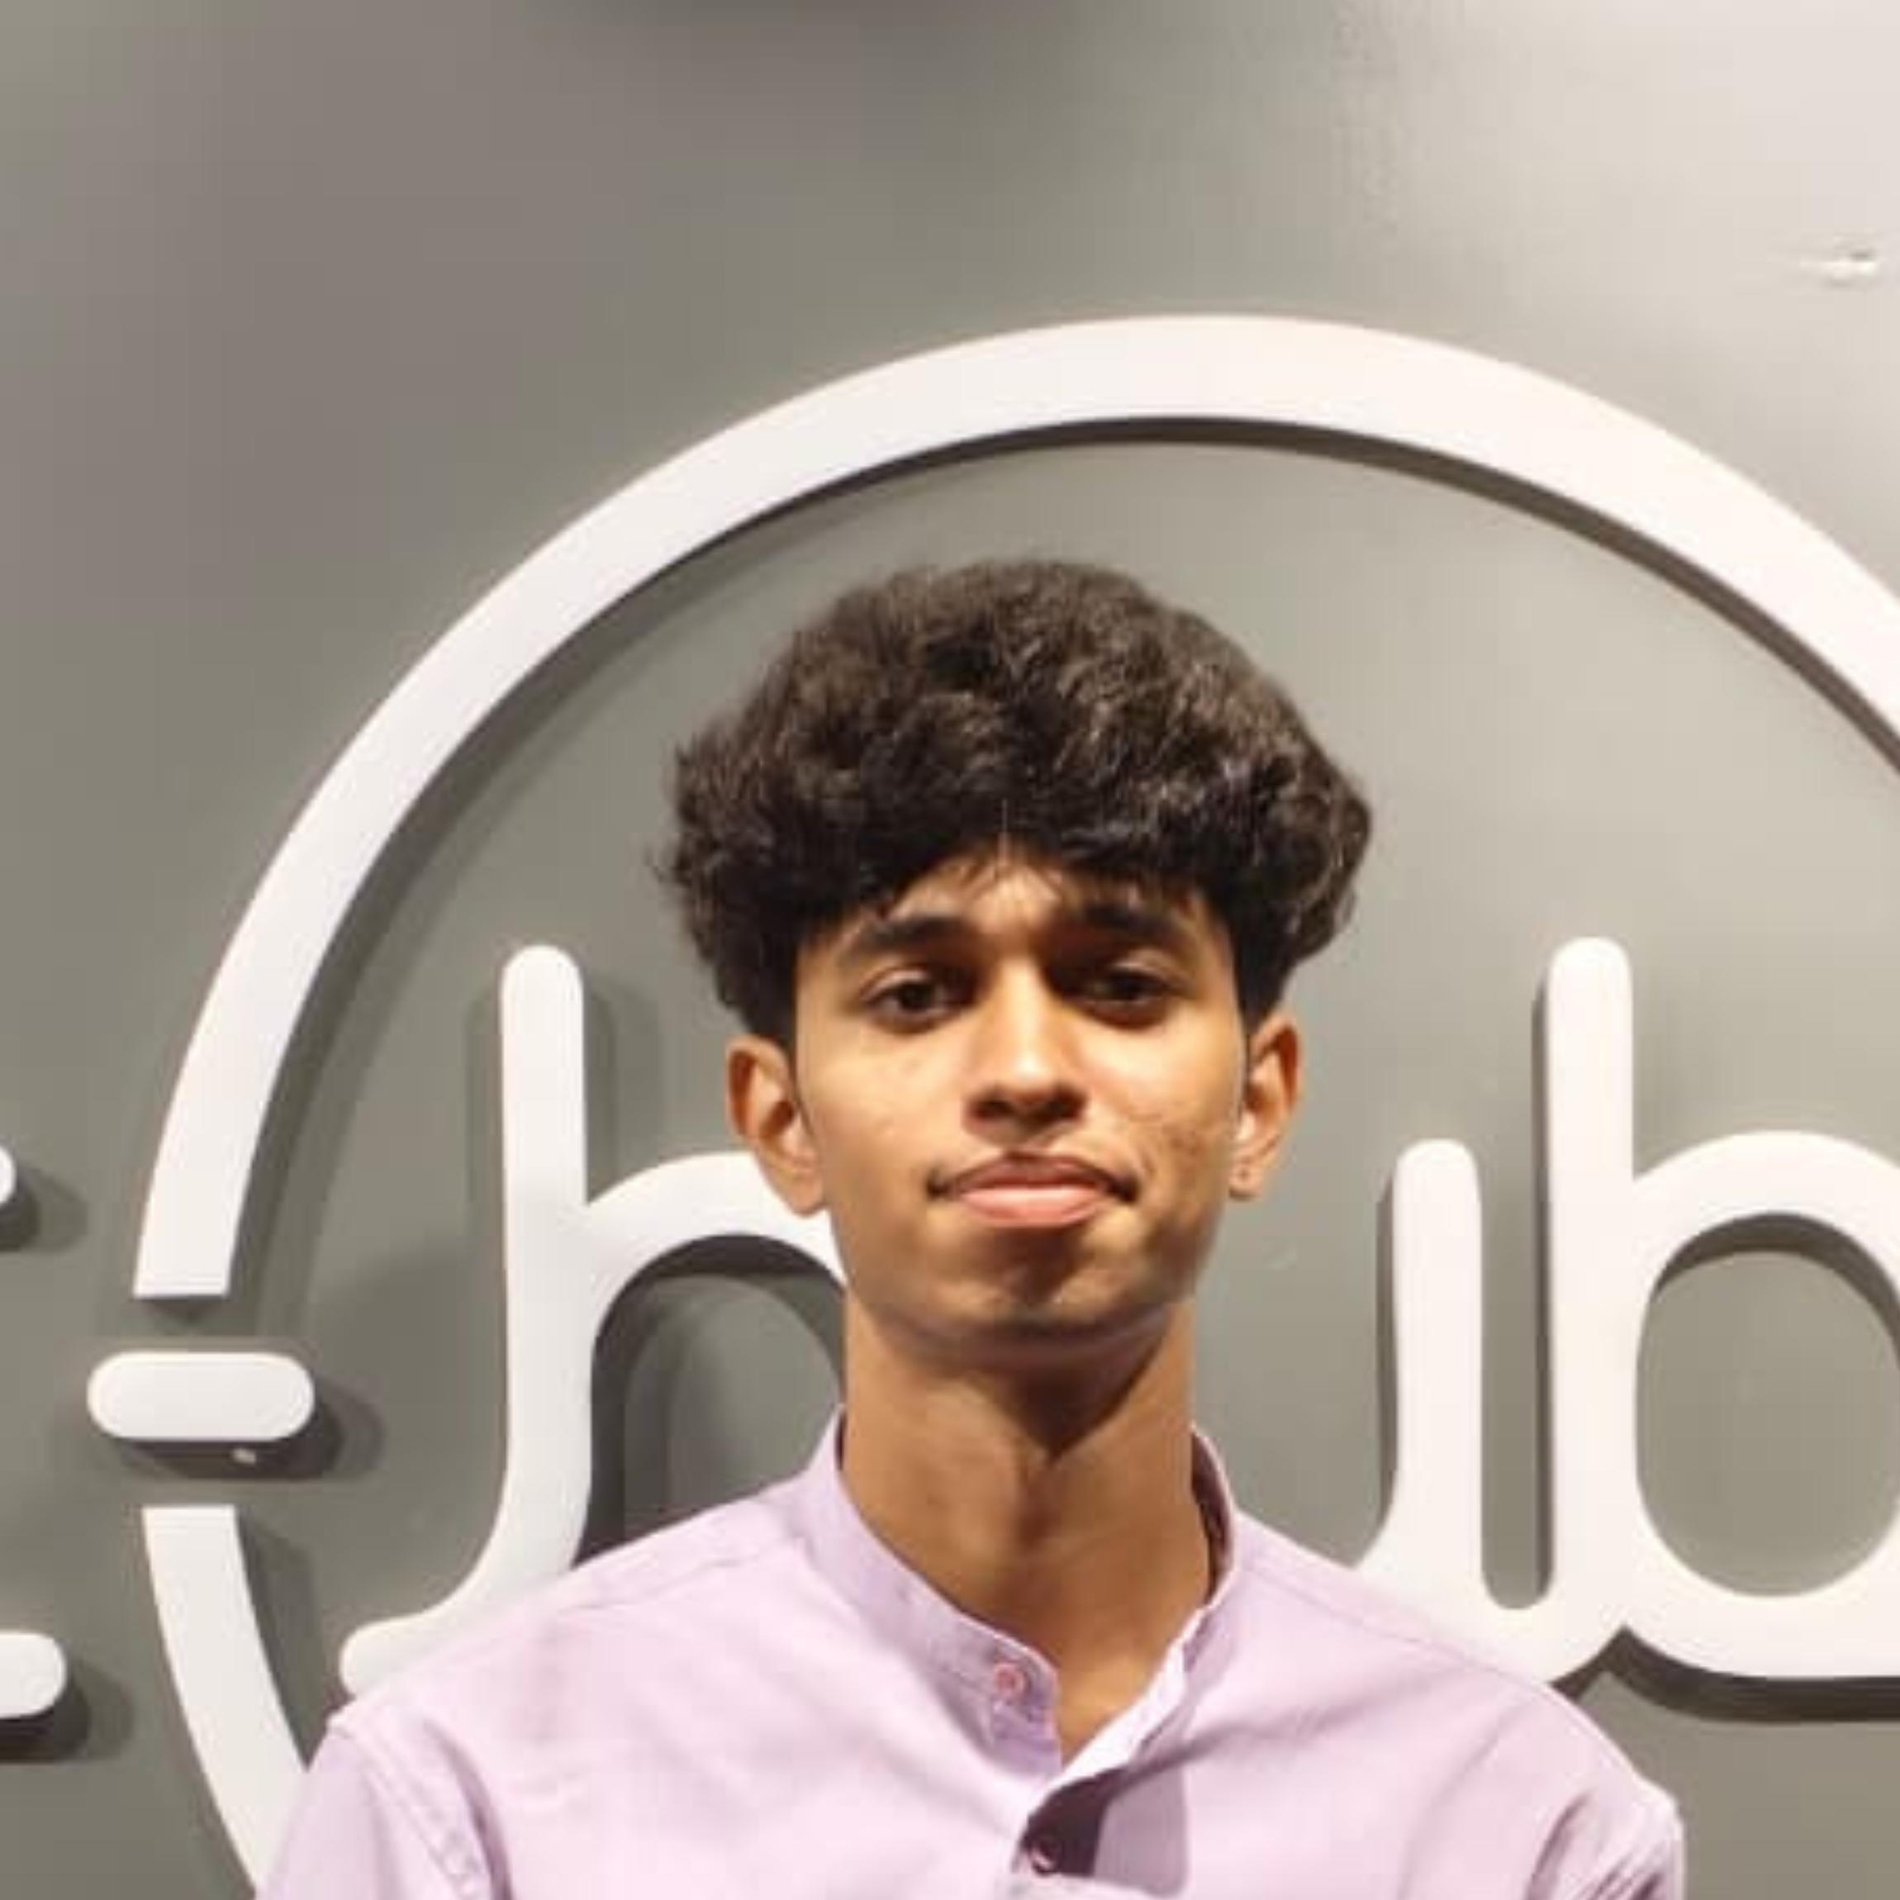
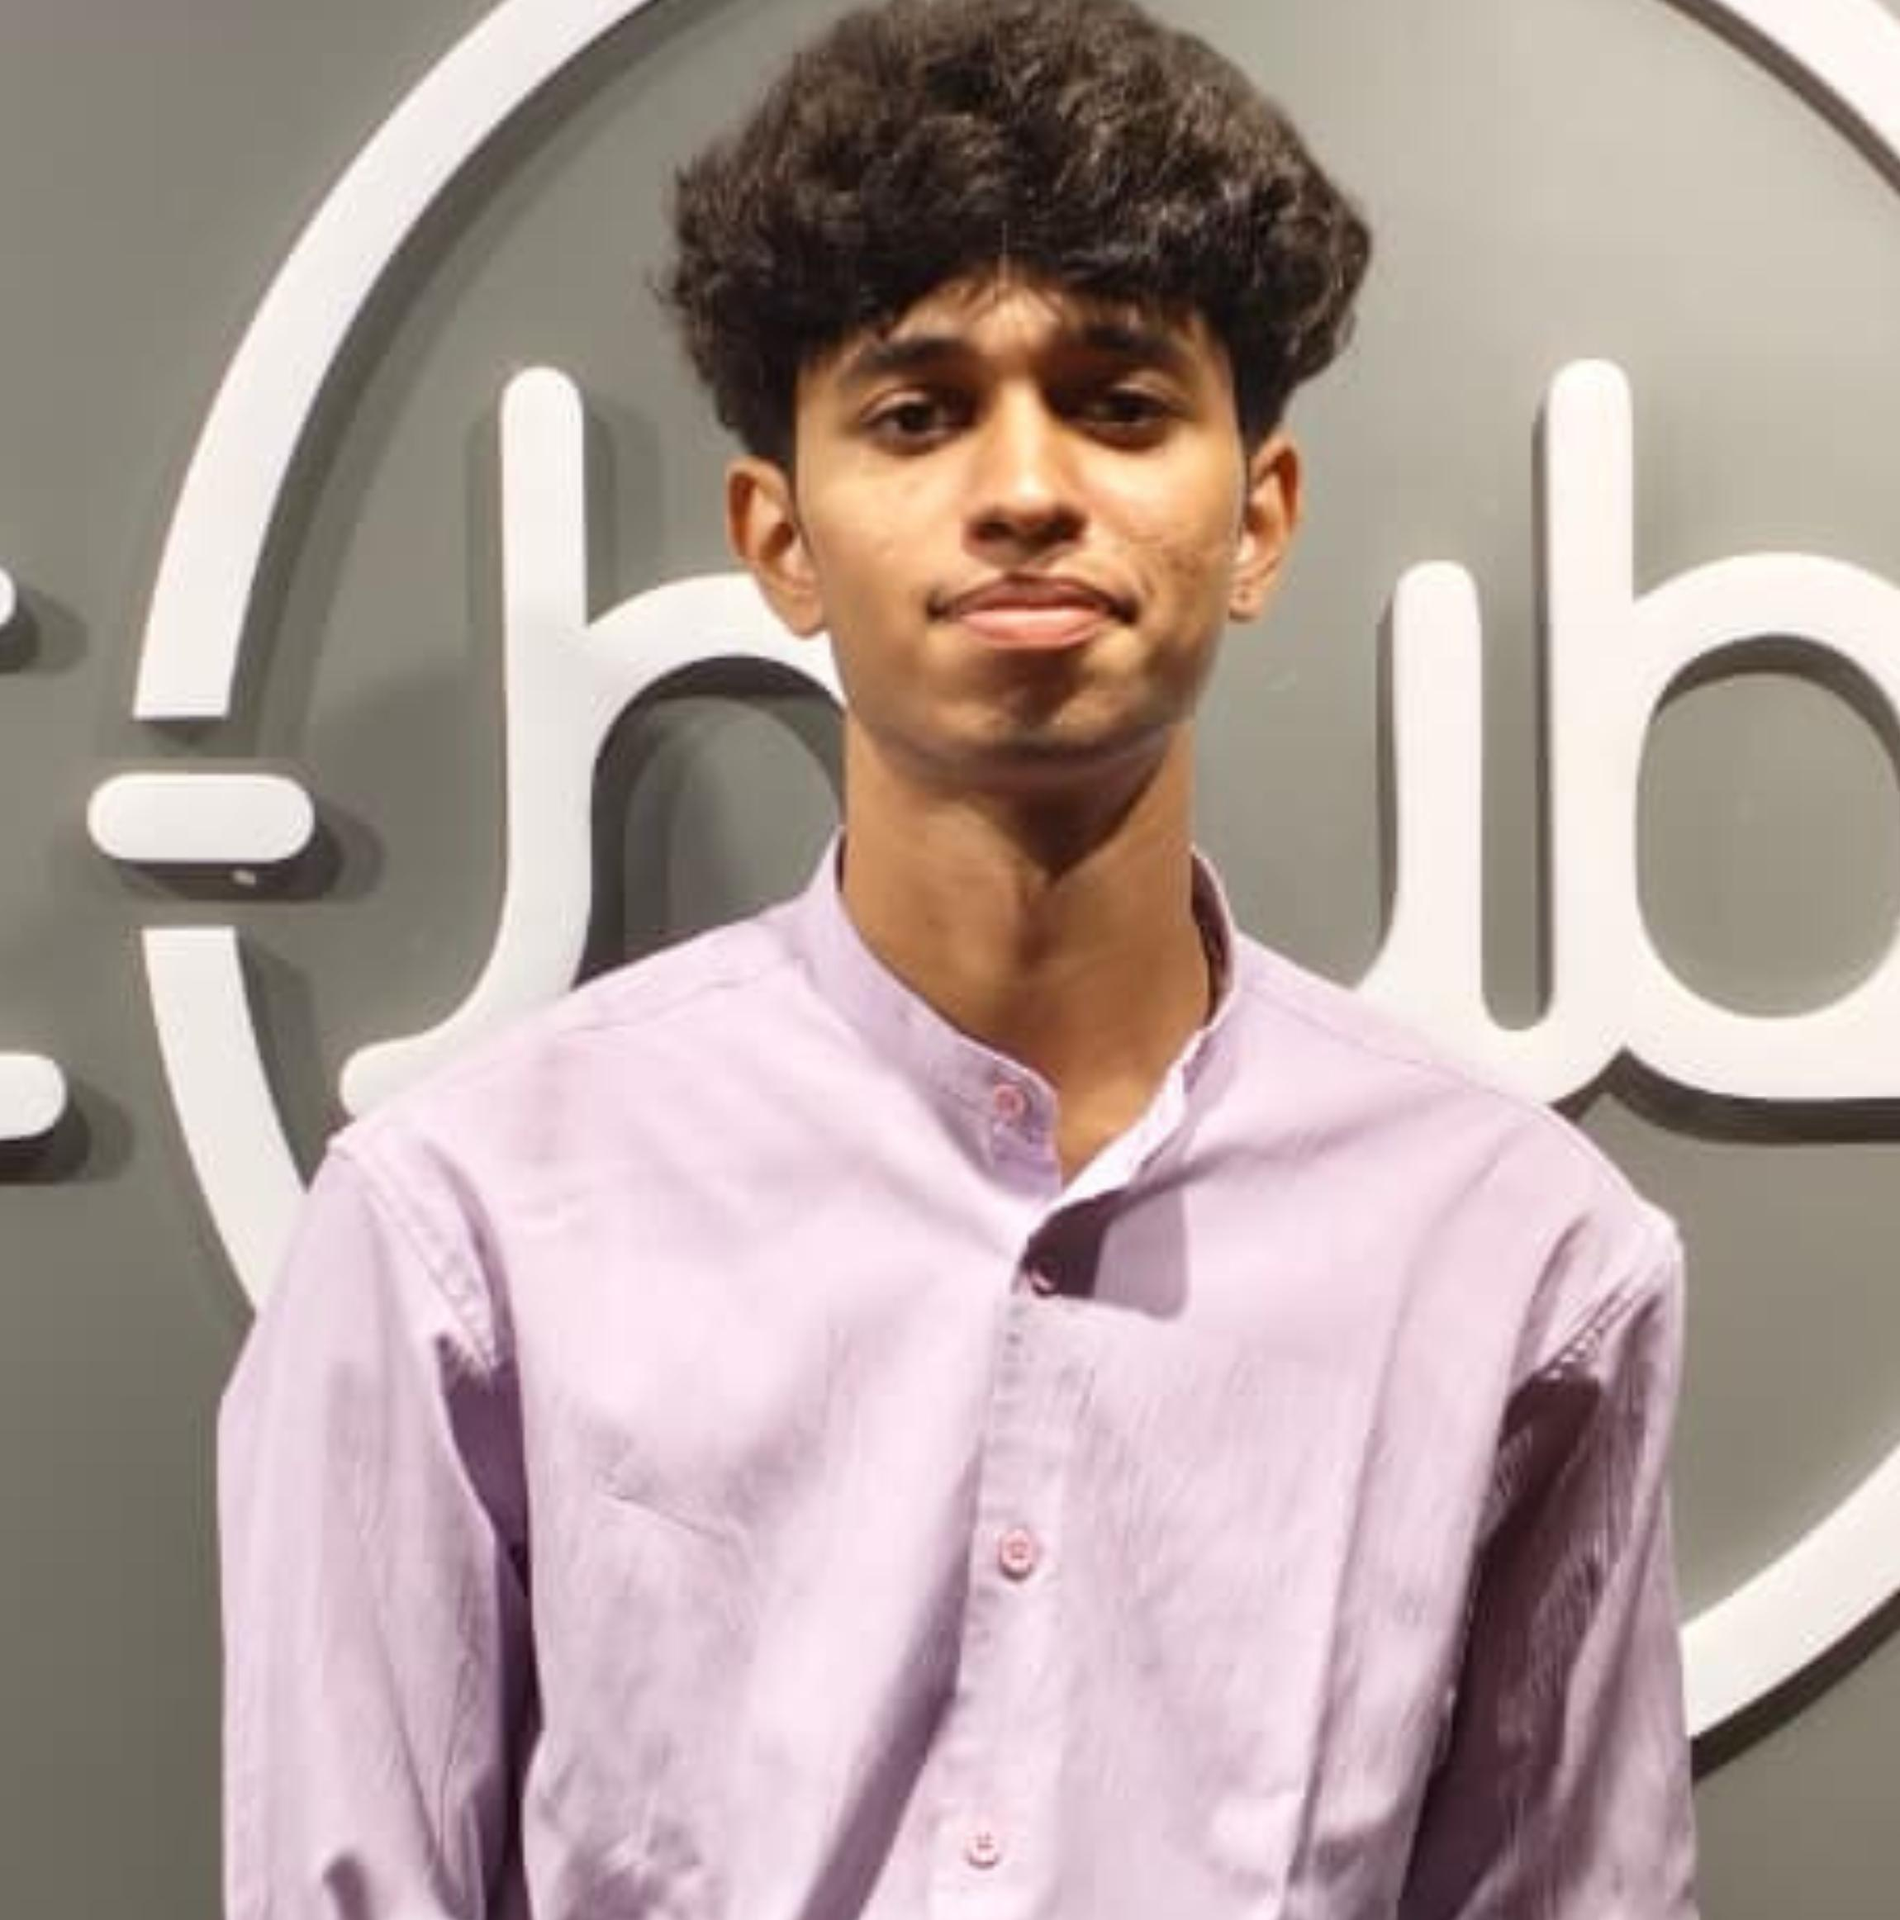
feat: align srinidhi and remove naresh balaji image asset

diff --git a/index.html b/index.html
@@ -5458,7 +5458,7 @@
       /* ── JOINT COORDINATORS (3rd Years) ── */
       { isHead: false, name: 'Arriram', role: 'Joint Coordinator', dept: '', img: 'assets/committee/Ariram .jpg.jpeg', phone: '+910000000000', linkedin: '#' },
       { isHead: false, name: 'Abinayaa', role: 'Joint Coordinator', dept: '', img: 'assets/committee/abinayaa_cropped.jpg', phone: '+910000000000', linkedin: '#' },
-      { isHead: false, name: 'Adharsini', role: 'Joint Coordinator', dept: '', img: 'assets/committee/adarshini_cropped.jpg', phone: '+910000000000', linkedin: '#' },
+      { isHead: false, name: 'Adharsini', role: 'Joint Coordinator', dept: '', img: 'assets/committee/adarshini_v9.jpg', phone: '+910000000000', linkedin: '#' },
       { isHead: false, name: 'Abirami', role: 'Joint Coordinator', dept: '', img: 'https://ui-avatars.com/api/?name=Abirami&background=e8541a&color=fff&size=128', phone: '+910000000000', linkedin: '#' },
       { isHead: false, name: 'Devadharshini', role: 'Joint Coordinator', dept: '', img: 'assets/committee/devadharshini_cropped.jpg', phone: '+910000000000', linkedin: '#' },
       { isHead: false, name: 'Dharshan', role: 'Joint Coordinator', dept: '', img: 'assets/committee/Dharshan.jpeg', phone: '+910000000000', linkedin: '#' },
@@ -5467,10 +5467,10 @@
       { isHead: false, name: 'Mathivadhana', role: 'Joint Coordinator', dept: '', img: 'assets/committee/mathivadhana_cropped.jpg', phone: '+910000000000', linkedin: '#' },
       { isHead: false, name: 'Jeevesh', role: 'Joint Coordinator', dept: '', img: 'assets/committee/jeevesh_cropped.jpg', phone: '+910000000000', linkedin: '#' },
       { isHead: false, name: 'Meeran', role: 'Joint Coordinator', dept: '', img: 'assets/committee/meeran.jpeg', phone: '+910000000000', linkedin: '#' },
-      { isHead: false, name: 'Naren', role: 'Joint Coordinator', dept: '', img: 'assets/committee/naren_cropped.jpg', phone: '+910000000000', linkedin: '#' },
+      { isHead: false, name: 'Naren', role: 'Joint Coordinator', dept: '', img: 'assets/committee/naren_v9.jpg', phone: '+910000000000', linkedin: '#' },
       { isHead: false, name: 'Nitheesh', role: 'Joint Coordinator', dept: '', img: 'assets/committee/nitheesh_cropped.jpeg', phone: '+910000000000', linkedin: '#' },
-      { isHead: false, name: 'Naresh Balaji', role: 'Joint Coordinator', dept: '', img: 'assets/committee/naresh_cropped.jpg', phone: '+910000000000', linkedin: '#' },
-      { isHead: false, name: 'Srinidhi', role: 'Joint Coordinator', dept: '', img: 'https://ui-avatars.com/api/?name=Srinidhi&background=e8541a&color=fff&size=128', phone: '+910000000000', linkedin: '#' },
+      { isHead: false, name: 'Naresh Balaji', role: 'Joint Coordinator', dept: '', img: 'assets/committee/naresh_test_99.jpg', phone: '+910000000000', linkedin: '#' },
+      { isHead: false, name: 'Srinidhi', role: 'Joint Coordinator', dept: '', img: 'assets/committee/srinidhi_cropped.jpg', phone: '+910000000000', linkedin: '#' },
       { isHead: false, name: 'Sankari', role: 'Joint Coordinator', dept: '', img: 'assets/committee/sankari_cropped.jpg', phone: '+910000000000', linkedin: '#' },
       { isHead: false, name: 'Sudharsan', role: 'Joint Coordinator', dept: '', img: 'assets/committee/Sudharsan.jpeg', phone: '+910000000000', linkedin: '#' },
       { isHead: false, name: 'Vijay Kasthuri', role: 'Joint Coordinator', dept: '', img: 'assets/committee/vijay_kasthuri_cropped.jpg', phone: '+910000000000', linkedin: '#' },
